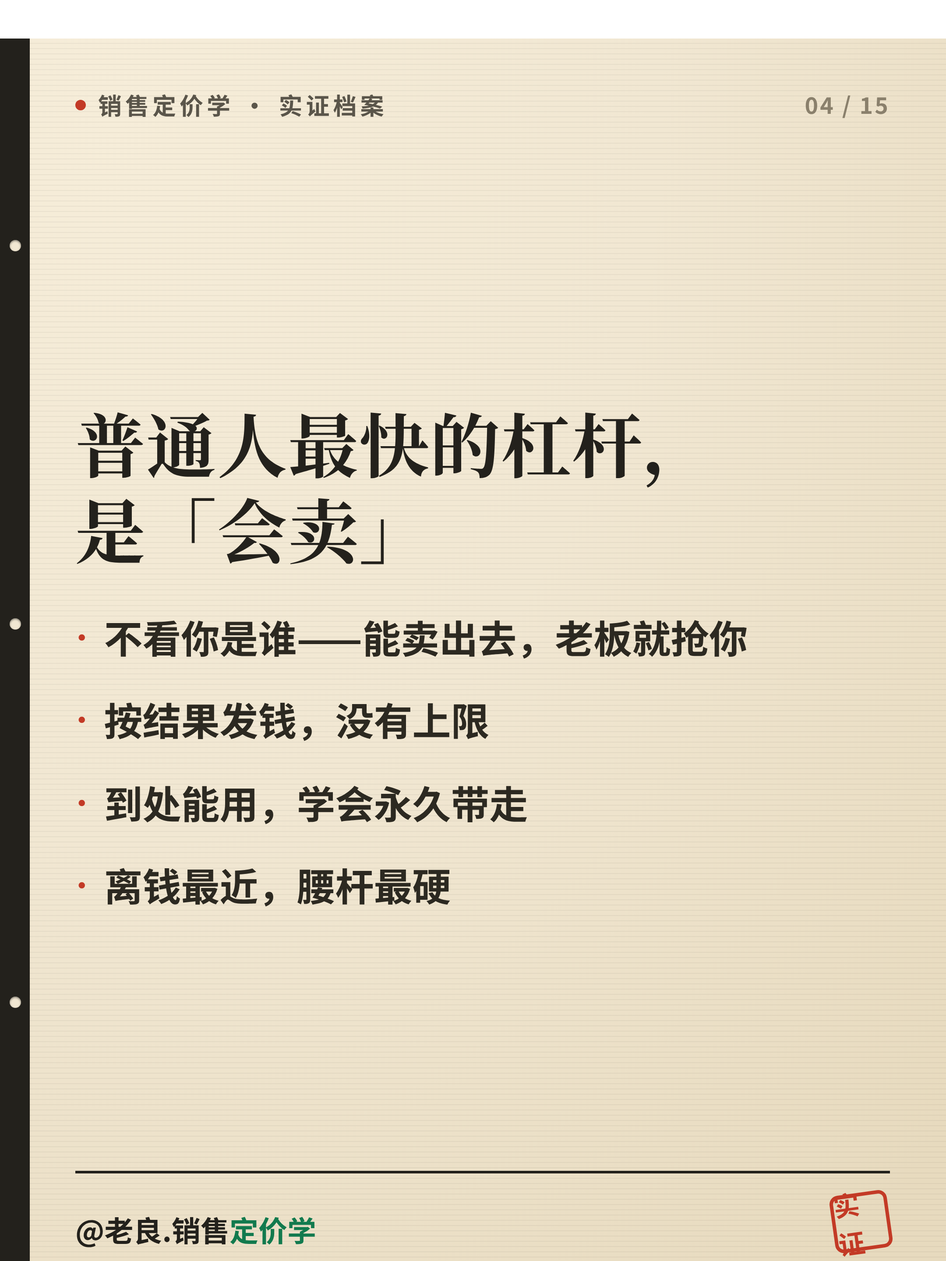
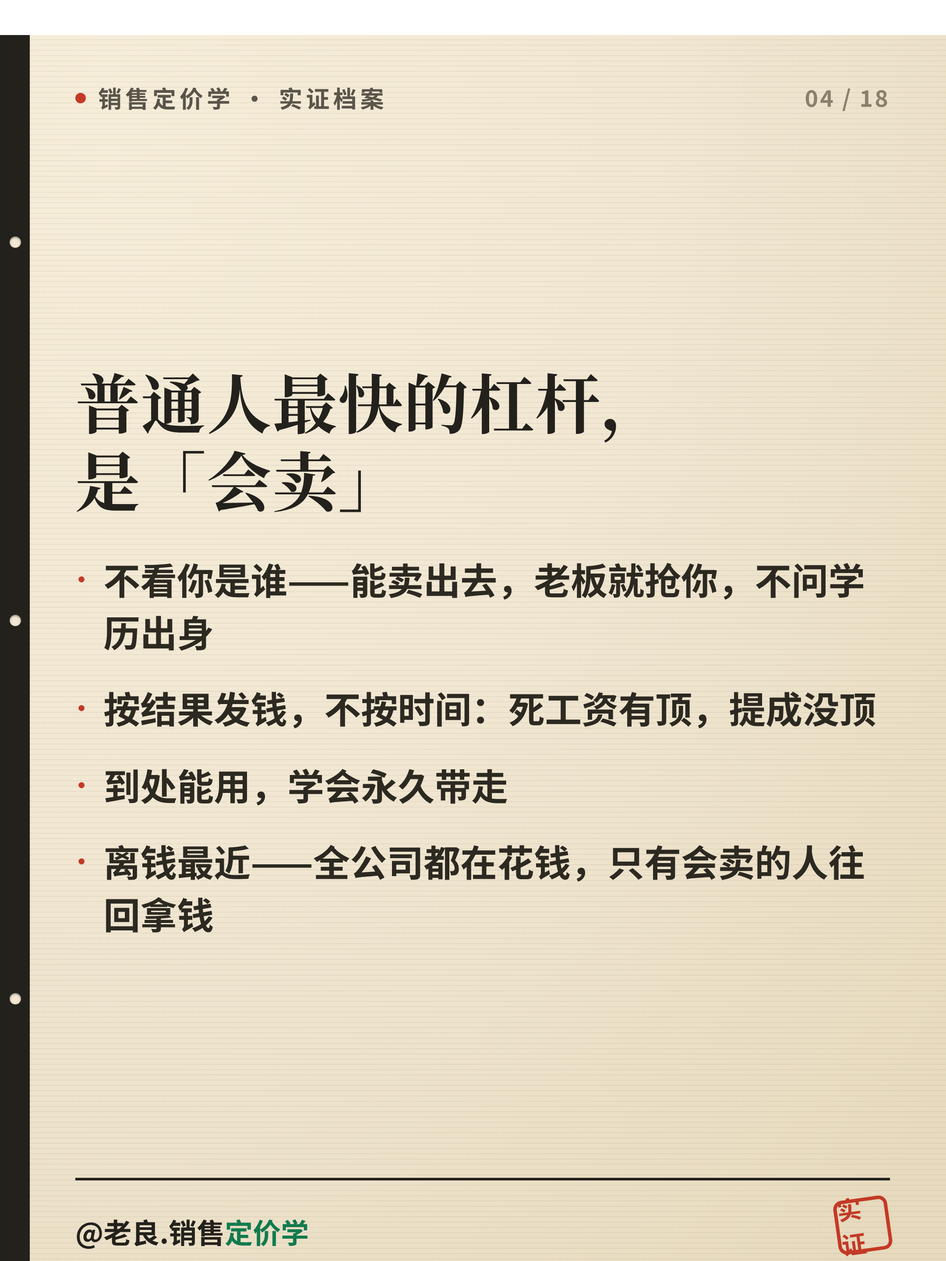
运营：长图卡片改为完整最长文版18张（每根杠杆恢复本质+研究+自查，非精简版）

diff --git a/theory-cards/运营/长图卡片/carousel.js b/theory-cards/运营/长图卡片/carousel.js
@@ -1,48 +1,70 @@
 const { chromium } = require('playwright');
-const HANDLE = '@老良.销售定价学';
-const N = 15;
-
-// 富文本：<r>红</r> <g>绿</g>
+const N = 18;
 function rt(s){ return (s||'').replace(/<r>/g,'<span class="r">').replace(/<\/r>/g,'</span>')
   .replace(/<g>/g,'<span class="g">').replace(/<\/g>/g,'</span>'); }
 
 const S = [
-  { type:'cover', eyebrow:'销售定价学 · 实证档案',
-    title:'为什么你<r>拼了命</r>，<br>还是<g>穷</g>？', sub:'普通人赚钱的第二层真相' },
+  { type:'cover', title:'为什么你<r>拼了命</r>，<br>还是<g>穷</g>？', sub:'普通人赚钱的第二层真相' },
 
-  { type:'statement', tag:'开篇',
-    big:'不是你不够努力。<br>是你以为对的，<r>99%是错的</r>。',
-    body:['常识要是对的，照做的人早都富了。','可现实是——越信常识的人，越穷。','在"怎么赚钱"上，人的直觉几乎是反着来的。'] },
+  { type:'statement', tag:'开篇', big:'不是你不够努力。<br>是你以为对的，<r>99%是错的</r>。',
+    body:['你有没有算过：按你现在的赚法，这辈子到底能赚多少钱？算完那个数，大多数人会沉默——它配不上你流过的汗。',
+          '常识要是对的，照做的人早都富了。可越信常识的人越穷。在"怎么赚钱"上，人的直觉几乎是反着来的。',
+          '读完这篇，你会拿到一张纸：什么在给你钉天花板，今天能拧松哪颗螺丝。'] },
 
-  { type:'list', tag:'真相 ①', header:'你租不出<br>自己的时间',
-    items:['一天8小时拼成16小时，收入最多翻倍，还熬垮身体','收入和时间绑死，天花板就是焊死的','加班，加不出富人'], bullet:'·' },
+  { type:'statement', tag:'真相 ①', big:'你租不出<br>自己的时间',
+    body:['一天8小时拼成16小时，收入最多翻一倍，还熬垮身体。收入和时间绑死，天花板就是焊死的——加班加不出富人。',
+          '真正拉开几十倍差距的，不是谁更能熬，是有没有一根"杠杆"：一份能在你睡觉时替你赚钱的东西。',
+          '可普通人没资本、不会写代码、没有百万粉丝，手里什么杠杆都没有。怎么办？'] },
 
   { type:'list', header:'普通人最快的杠杆，<br>是「会卖」',
-    items:['不看你是谁——能卖出去，老板就抢你','按结果发钱，没有上限','到处能用，学会永久带走','离钱最近，腰杆最硬'], bullet:'·' },
+    items:['不看你是谁——能卖出去，老板就抢你，不问学历出身','按结果发钱，不按时间：死工资有顶，提成没顶','到处能用，学会永久带走','离钱最近——全公司都在花钱，只有会卖的人往回拿钱'], bullet:'·' },
 
-  { type:'list', tag:'别急着说"我不适合"', header:'内向嘴笨，<br>照样能卖到顶尖',
-    items:['沃顿追踪340个销售：性格居中的普通人，比内向的多卖<r>24%</r>、比外向的多卖<r>32%</r>','1985年四教授总账：能不能卖，"天赋性格"排最后，"搞清楚该干啥"排第一——纯靠训练','"我不适合"，是你信了个假故事'], bullet:'·' },
+  { type:'statement', tag:'别急着说"我不适合"', big:'内向嘴笨，<br>照样卖到顶尖',
+    body:['沃顿追踪340个销售：卖得最好的不是能说会道的外向人，是性格居中的普通人——比内向的多卖<r>24%</r>、比外向的多卖<r>32%</r>。',
+          '闷的人不敢推，太能侃的只顾自己说、招人烦；中间那种，会说也会听，最容易成交。',
+          '1985年四教授总账：能不能卖，"天赋性格"排最后，"搞清楚该干啥"排第一——纯靠训练。"我不适合"，是你信了个假故事。'] },
 
-  { type:'list', tag:'真相 ②', header:'会卖，<br>也可能一直<g>穷</g>',
-    items:['你赚多少，不由你多能卖，由那套"分钱的规矩"定','同一个销冠，换套提成，收入差好几倍','你能赚多少，签合同那一刻就写死了——除非你看懂它、改它、换它'], bullet:'·' },
+  { type:'statement', tag:'真相 ②', big:'会卖，<br>也可能一直<g>穷</g>',
+    body:['就算练成销冠，也可能还是穷。因为你赚多少，不由你多能卖，由那套"分钱的规矩"定。',
+          '同一个销冠，放进两家公司、两套提成，收入差好几倍。差的不是本事，是规矩。',
+          '我干了20年销售管理、扒了全球40年上百家公司的研究，就一句话：你在一家公司能赚多少，签合同、定提成那一刻就写死了——除非你看懂它、改它、换它。'] },
 
-  { type:'list', tag:'5年后 · 如果你还在打工', header:'那个不改的你', dark:true,
-    items:['还是那个工位，月底还在打折求签单','提成还是那几个点，多干的全白干','比你晚来的升上去了——他早看懂"跟对结构"','四十岁怕被优化，却只会"更拼"','你还在用命，替一套没为你设计的规矩买单'], bullet:'·' },
+  { type:'statement', tag:'5年后 · 如果你还在打工', big:'那个不改的你', dark:true,
+    body:['还是那个工位，月底还在打折求客户签单。提成还是那几个点，超过那条线，多干的全白干。',
+          '你更努力了，账户数字却没怎么动。比你晚来的升上去了——不是他更能干，是他早看懂"跟对结构"。',
+          '四十岁，你怕被优化，却发现除了"更拼"什么都不会。你还在用命，替一套从没为你设计的规矩买单。'] },
 
-  { type:'list', tag:'5年后 · 如果你是老板', header:'那个不改的公司', dark:true,
-    items:['还在"招人—走人—怪销售—再招人"里打转','销冠一个个走，留下的卡线摸鱼','利润被月底打折悄悄冲光，报表还看不见','你以为市场不好，其实是你的规矩在奖励错的行为'], bullet:'·' },
+  { type:'statement', tag:'5年后 · 如果你是老板', big:'那个不改的公司', dark:true,
+    body:['你还在"招人—走人—怪销售不行—再招人"的圈里打转。销冠一个接一个走，留下的卡线摸鱼、能省则省。',
+          '利润被月底的打折冲单一年年悄悄冲光，报表上还看不见这一行。',
+          '你以为是市场不好、是人不行——其实是你亲手定的规矩，一直在奖励你最不想要的行为。'] },
 
-  { type:'list', tag:'对照自查', header:'锁死你收入的<br>10根杠杆（上）',
-    items:['1｜你上的哪条船（行业在缩还是在涨）','2｜钱的形状（纯提成把你压平）','3｜提成有没有封顶','4｜奖金是不是拖到年底','5｜目标是不是拍脑袋、年年硬加'], bullet:'' },
+  { type:'levers', tag:'锁死你收入的10根杠杆', items:[
+    { h:'1｜你上的哪条船', d:'平庸的人在暴涨行业，能吊打顶尖的人在夕阳行业。船，比划桨重要。', c:'这行在缩、或全靠打折才卖得动 → 中' },
+    { h:'2｜钱的形状', d:'纯提成是一条直线，把你压平。研究：换成"底薪+提成+季度奖+超额奖"，营收高约18%。', c:'低底薪+纯提成 → 中' } ] },
 
-  { type:'list', tag:'对照自查', header:'锁死你收入的<br>10根杠杆（下）',
-    items:['6｜提拔是不是只看业绩','7｜发奖是不是只哄后进','8｜身边是高手还是混子','9｜好线索归不归你','10｜产品是不是全靠便宜才卖得动'], foot:'中得越多，你被漏掉的越多。', bullet:'' },
+  { type:'levers', items:[
+    { h:'3｜提成封顶', d:'封顶=老板明说"干过这条线再干不划算"，你自动收工。研究：砍掉最高档，最能干的人营收掉约两成。', c:'有封顶 / 超额不加价 → 中' },
+    { h:'4｜发钱节奏', d:'年初一掉队就躺平，年终奖对掉队的人几乎没用。季度发，才救得回来。', c:'大头奖金拖到年底 → 中' } ] },
+
+  { type:'levers', items:[
+    { h:'5｜目标怎么定', d:'近七成销售完不成任务——还是任务调低之后。年年只加不减，逼所有人留一手。', c:'定完没人达标、年年硬加 → 中' },
+    { h:'6｜提拔标准', d:'顶刊4万销售：只按业绩提的主管，手下业绩反降约7.5%；按会带人提的，手下最高涨三成。', c:'提拔只看谁签单多 → 中' } ] },
+
+  { type:'levers', items:[
+    { h:'7｜发奖设计', d:'一搞"人人有份"的奖，最靠谱的骨干反而松劲、掉约8%——他觉得"奖为混子发"。', c:'激励只围着后几名转 → 中' },
+    { h:'8｜身边是谁', d:'顶刊：计时改计件，人均产量涨44%，一半是好结构吸来高手、赶走混子。身边人=你的天花板。', c:'打鸡血凑的人，不是好结构吸来的 → 中' } ] },
+
+  { type:'levers', items:[
+    { h:'9｜线索地盘', d:'好客户被老人垄断，新人只能啃骨头。起跑线差三米，你跑再快也累。', c:'线索和销冠不是一个池子 → 中' },
+    { h:'10｜产品定价', d:'定价太低，你再能卖单均提成也薄，等于用血汗补老板定价的错。', c:'全靠"比别人便宜"才卖得动 → 中' } ],
+    foot:'中得越多，你被漏掉的越多。' },
 
   { type:'list', header:'一个下午，一张纸，<br>四步',
-    items:['① 写下10根杠杆的编号','② 逐根自查，中了画圈','③ 挑最痛的一根（先只动一根）','④ 今天就改一个动作'], bullet:'' },
+    items:['写下10根杠杆的编号','逐根自查，中了画圈','挑最痛的一根（先只动一根）','今天就改一个动作：打工的去谈/早做打算，老板的改一个数字'], bullet:'num' },
 
   { type:'list', header:'改的时候，<br>你会过三道关',
-    items:['一、别扭——新规矩谁都不习惯','二、怀疑——最要命，多数人死在这','三、兑现——两三周，钱开始动'], foot:'撑过第二关，你就赢了。', bullet:'' },
+    items:['别扭——新规矩谁都不习惯','怀疑——最要命，多数人死在这、退回去','兑现——两三周，钱开始动'], foot:'撑过第二关，你就赢了。', bullet:'num' },
 
   { type:'quote', big:'你的天花板，<br>不在你的<g>能力</g>上，<br>在那张你从没看过的<br><r>"分钱的规矩"</r>上。' },
 
@@ -50,132 +72,96 @@ const S = [
     body:['评论区扣数字告诉我。','想看每根到底怎么改——','关注我，138条实证一条条讲。'],
     share:'转给那个"累死累活、还不涨薪"的人' },
 
-  { type:'end', big:'实证\n档案',
-    lines:['138条销售管理实证','一条一张卡，每条带论文出处，可自己查'] },
+  { type:'end', lines:['138条销售管理实证','一条一张卡，每条带论文出处，可自己查'] },
 ];
 
-function chrome(i, tag, dark){
+function chrome(i){
   const pg = String(i+1).padStart(2,'0');
-  return `
-  <div class="bind"><i style="top:16%"></i><i style="top:46%"></i><i style="top:76%"></i></div>
-  <div class="top">
-    <div class="eyebrow"><span class="dot"></span>销售定价学 · 实证档案</div>
-    <div class="pg">${pg} / ${N}</div>
-  </div>
-  <div class="foot">
-    <div class="handle"><b>@老良</b>.销售<span class="g">定价学</span></div>
-    <div class="chop">实证</div>
-  </div>`;
+  return `<div class="bind"><i style="top:16%"></i><i style="top:46%"></i><i style="top:76%"></i></div>
+  <div class="top"><div class="eyebrow"><span class="dot"></span>销售定价学 · 实证档案</div><div class="pg">${pg} / ${N}</div></div>
+  <div class="foot"><div class="handle"><b>@老良</b>.销售<span class="g">定价学</span></div><div class="chop">实证</div></div>`;
 }
-
 function slideHTML(s, i){
-  let inner = '';
-  if (s.type === 'cover'){
-    inner = `<div class="body cover">
-      <div class="kick"><span class="dot"></span>${s.eyebrow}</div>
-      <div class="seal big"><b>实证</b><span>档案</span></div>
-      <h1 class="title xl">${rt(s.title)}</h1>
-      <div class="sub">${rt(s.sub)}</div>
-    </div>`;
-  } else if (s.type === 'statement'){
-    inner = `<div class="body">
-      ${s.tag?`<div class="pill">${rt(s.tag)}</div>`:''}
-      <h1 class="title">${rt(s.big)}</h1>
-      <div class="para">${s.body.map(x=>`<p>${rt(x)}</p>`).join('')}</div>
-    </div>`;
-  } else if (s.type === 'list'){
-    inner = `<div class="body">
-      ${s.tag?`<div class="pill ${s.dark?'dark':''}">${rt(s.tag)}</div>`:''}
-      <h1 class="title">${rt(s.header)}</h1>
-      <ul class="list">${s.items.map(x=>`<li>${s.bullet?`<span class="bul">${s.bullet}</span>`:''}<span class="it">${rt(x)}</span></li>`).join('')}</ul>
-      ${s.foot?`<div class="listfoot">${rt(s.foot)}</div>`:''}
-    </div>`;
-  } else if (s.type === 'quote'){
-    inner = `<div class="body quote"><div class="qmark">“</div><h1 class="title q">${rt(s.big)}</h1></div>`;
-  } else if (s.type === 'cta'){
-    inner = `<div class="body">
-      <h1 class="title">${rt(s.big)}</h1>
-      <div class="para">${s.body.map(x=>`<p>${rt(x)}</p>`).join('')}</div>
-      <div class="share">${rt(s.share)}</div>
-    </div>`;
-  } else if (s.type === 'end'){
-    inner = `<div class="body end">
-      <div class="seal big end"><b>实证</b><span>档案</span></div>
-      <div class="endhandle"><b>@老良</b>.销售<span class="g">定价学</span></div>
-      <div class="endlines">${s.lines.map(x=>`<p>${rt(x)}</p>`).join('')}</div>
-      <div class="follow">点关注 · 一条条追下去 →</div>
-    </div>`;
-  }
-  return `<div class="cv ${s.type}">${chrome(i, s.tag, s.dark)}${inner}</div>`;
+  let inner='';
+  if(s.type==='cover'){ inner=`<div class="body cover">
+    <div class="seal big"><b>实证</b><span>档案</span></div>
+    <h1 class="title xl">${rt(s.title)}</h1><div class="sub">${rt(s.sub)}</div></div>`; }
+  else if(s.type==='statement'){ inner=`<div class="body">${s.tag?`<div class="pill ${s.dark?'dark':''}">${rt(s.tag)}</div>`:''}
+    <h1 class="title">${rt(s.big)}</h1><div class="para">${s.body.map(x=>`<p>${rt(x)}</p>`).join('')}</div></div>`; }
+  else if(s.type==='list'){ let n=0; inner=`<div class="body">${s.tag?`<div class="pill">${rt(s.tag)}</div>`:''}
+    <h1 class="title">${rt(s.header)}</h1><ul class="list">${s.items.map(x=>{n++;const b=s.bullet==='num'?`<span class="bul num">${n}</span>`:(s.bullet?`<span class="bul">${s.bullet}</span>`:'');return `<li>${b}<span class="it">${rt(x)}</span></li>`;}).join('')}</ul>
+    ${s.foot?`<div class="listfoot">${rt(s.foot)}</div>`:''}</div>`; }
+  else if(s.type==='levers'){ inner=`<div class="body">${s.tag?`<div class="pill">${rt(s.tag)}</div>`:''}
+    <div class="levers">${s.items.map(it=>`<div class="lev"><div class="lh">${rt(it.h)}</div><div class="ld">${rt(it.d)}</div><div class="lc">自查：${rt(it.c)}</div></div>`).join('')}</div>
+    ${s.foot?`<div class="listfoot">${rt(s.foot)}</div>`:''}</div>`; }
+  else if(s.type==='quote'){ inner=`<div class="body quote"><div class="qmark">“</div><h1 class="title q">${rt(s.big)}</h1></div>`; }
+  else if(s.type==='cta'){ inner=`<div class="body"><h1 class="title">${rt(s.big)}</h1>
+    <div class="para">${s.body.map(x=>`<p>${rt(x)}</p>`).join('')}</div><div class="share">${rt(s.share)}</div></div>`; }
+  else if(s.type==='end'){ inner=`<div class="body end"><div class="seal big end"><b>实证</b><span>档案</span></div>
+    <div class="endhandle"><b>@老良</b>.销售<span class="g">定价学</span></div>
+    <div class="endlines">${s.lines.map(x=>`<p>${rt(x)}</p>`).join('')}</div>
+    <div class="follow">点关注 · 一条条追下去 →</div></div>`; }
+  return `<div class="cv ${s.type}">${chrome(i)}${inner}</div>`;
 }
 
-const CSS = `
-*{margin:0;padding:0;box-sizing:border-box;}
+const CSS=`*{margin:0;padding:0;box-sizing:border-box;}
 .cv{position:relative;width:1080px;height:1440px;overflow:hidden;
   background:radial-gradient(120% 120% at 12% 6%, #F6EDD9 0%, #F1E7D2 48%, #E7DABE 100%);
   font-family:"Noto Serif CJK SC",serif;color:#23211C;}
-.cv::before{content:"";position:absolute;inset:0;opacity:.045;pointer-events:none;
-  background-image:repeating-linear-gradient(0deg,#000 0 1px,transparent 1px 6px);}
+.cv::before{content:"";position:absolute;inset:0;opacity:.045;pointer-events:none;background-image:repeating-linear-gradient(0deg,#000 0 1px,transparent 1px 6px);}
 .bind{position:absolute;left:0;top:0;bottom:0;width:34px;background:#23211C;}
 .bind i{position:absolute;left:11px;width:13px;height:13px;border-radius:50%;background:#F1E7D2;box-shadow:inset 0 1px 2px rgba(0,0,0,.5);}
-.top{position:absolute;left:86px;right:64px;top:56px;display:flex;justify-content:space-between;align-items:center;
-  font-family:"Noto Sans CJK SC",sans-serif;}
+.top{position:absolute;left:86px;right:64px;top:52px;display:flex;justify-content:space-between;align-items:center;font-family:"Noto Sans CJK SC",sans-serif;}
 .eyebrow{display:flex;align-items:center;gap:14px;color:#5A554A;font-weight:700;font-size:27px;letter-spacing:4px;}
-.eyebrow .dot,.kick .dot{width:12px;height:12px;background:#C33A26;border-radius:50%;display:inline-block;}
+.eyebrow .dot{width:12px;height:12px;background:#C33A26;border-radius:50%;display:inline-block;}
 .pg{color:#8a806c;font-weight:800;font-size:26px;letter-spacing:2px;}
-.foot{position:absolute;left:86px;right:64px;bottom:56px;display:flex;justify-content:space-between;align-items:flex-end;
-  font-family:"Noto Sans CJK SC",sans-serif;padding-top:22px;border-top:3px solid #23211C;}
-.handle{font-size:33px;font-weight:800;color:#23211C;}
-.handle b{color:#23211C;} .g{color:#127A4E;} .r{color:#C33A26;}
-.chop{width:66px;height:66px;border:4px solid #C33A26;border-radius:10px;color:#C33A26;font-weight:900;font-size:30px;
-  display:flex;align-items:center;justify-content:center;transform:rotate(-8deg);letter-spacing:2px;}
-.body{position:absolute;left:86px;right:72px;top:150px;bottom:150px;display:flex;flex-direction:column;justify-content:center;}
-.pill{align-self:flex-start;background:#23211C;color:#F1E7D2;font-family:"Noto Sans CJK SC",sans-serif;font-weight:800;
-  font-size:30px;letter-spacing:2px;padding:10px 22px;border-radius:10px;margin-bottom:34px;}
+.foot{position:absolute;left:86px;right:64px;bottom:50px;display:flex;justify-content:space-between;align-items:flex-end;font-family:"Noto Sans CJK SC",sans-serif;padding-top:20px;border-top:3px solid #23211C;}
+.handle{font-size:32px;font-weight:800;color:#23211C;} .g{color:#127A4E;} .r{color:#C33A26;}
+.chop{width:62px;height:62px;border:4px solid #C33A26;border-radius:10px;color:#C33A26;font-weight:900;font-size:28px;display:flex;align-items:center;justify-content:center;transform:rotate(-8deg);letter-spacing:2px;}
+.body{position:absolute;left:86px;right:72px;top:128px;bottom:132px;display:flex;flex-direction:column;justify-content:center;}
+.pill{align-self:flex-start;background:#23211C;color:#F1E7D2;font-family:"Noto Sans CJK SC",sans-serif;font-weight:800;font-size:29px;letter-spacing:2px;padding:10px 22px;border-radius:10px;margin-bottom:30px;}
 .pill.dark{background:#C33A26;}
-.title{font-weight:900;line-height:1.22;letter-spacing:1px;font-size:80px;}
-.title.xl{font-size:108px;line-height:1.14;}
-.para{margin-top:40px;}
-.para p{font-family:"Noto Sans CJK SC",sans-serif;font-size:43px;line-height:1.66;font-weight:600;color:#3a352c;margin-bottom:14px;}
-.list{list-style:none;margin-top:44px;}
-.list li{display:flex;gap:18px;align-items:flex-start;margin-bottom:30px;}
-.list .bul{color:#C33A26;font-weight:900;font-size:44px;line-height:1.4;}
-.list .it{font-family:"Noto Sans CJK SC",sans-serif;font-size:44px;line-height:1.46;font-weight:700;color:#2c2921;}
-.listfoot{margin-top:30px;font-family:"Noto Sans CJK SC",sans-serif;font-size:40px;font-weight:800;color:#C33A26;}
-.sub{margin-top:40px;font-family:"Noto Sans CJK SC",sans-serif;font-size:44px;font-weight:700;color:#5A554A;letter-spacing:2px;}
-.cover .kick{display:flex;align-items:center;gap:14px;color:#5A554A;font-weight:700;font-size:30px;letter-spacing:5px;
-  font-family:"Noto Sans CJK SC",sans-serif;margin-bottom:44px;}
-.seal{position:absolute;border:5px solid #C33A26;border-radius:14px;color:#C33A26;display:flex;flex-direction:column;
-  align-items:center;justify-content:center;transform:rotate(-9deg);}
-.seal.big{right:10px;top:20px;width:160px;height:160px;}
-.seal.big b{font-size:56px;font-weight:900;letter-spacing:4px;line-height:1;}
-.seal.big span{font-size:22px;letter-spacing:6px;margin-top:8px;}
-.quote{align-items:flex-start;}
-.qmark{font-size:180px;color:#C33A26;line-height:.7;height:110px;font-family:Georgia,serif;}
-.title.q{font-size:74px;line-height:1.42;}
-.share{margin-top:44px;background:rgba(18,122,78,.1);border:3px solid #127A4E;border-radius:14px;padding:24px 26px;
-  font-family:"Noto Sans CJK SC",sans-serif;font-size:38px;font-weight:800;color:#127A4E;line-height:1.4;}
+.title{font-weight:900;line-height:1.2;letter-spacing:1px;font-size:74px;}
+.title.xl{font-size:106px;line-height:1.14;}
+.para{margin-top:34px;}
+.para p{font-family:"Noto Sans CJK SC",sans-serif;font-size:40px;line-height:1.62;font-weight:600;color:#3a352c;margin-bottom:20px;}
+.list{list-style:none;margin-top:40px;}
+.list li{display:flex;gap:18px;align-items:flex-start;margin-bottom:28px;}
+.list .bul{color:#C33A26;font-weight:900;font-size:42px;line-height:1.35;flex:none;}
+.list .bul.num{width:52px;height:52px;background:#23211C;color:#F1E7D2;border-radius:50%;font-size:30px;display:flex;align-items:center;justify-content:center;}
+.list .it{font-family:"Noto Sans CJK SC",sans-serif;font-size:42px;line-height:1.42;font-weight:700;color:#2c2921;}
+.listfoot{margin-top:28px;font-family:"Noto Sans CJK SC",sans-serif;font-size:38px;font-weight:800;color:#C33A26;}
+.levers{display:flex;flex-direction:column;gap:40px;}
+.lev .lh{font-weight:900;font-size:50px;color:#23211C;letter-spacing:1px;margin-bottom:10px;}
+.lev .ld{font-family:"Noto Sans CJK SC",sans-serif;font-size:37px;line-height:1.5;font-weight:600;color:#3a352c;}
+.lev .lc{font-family:"Noto Sans CJK SC",sans-serif;font-size:33px;font-weight:800;color:#127A4E;margin-top:10px;}
+.sub{margin-top:36px;font-family:"Noto Sans CJK SC",sans-serif;font-size:44px;font-weight:700;color:#5A554A;letter-spacing:2px;}
+.seal{position:absolute;border:5px solid #C33A26;border-radius:14px;color:#C33A26;display:flex;flex-direction:column;align-items:center;justify-content:center;transform:rotate(-9deg);}
+.seal.big{right:6px;top:14px;width:150px;height:150px;}
+.seal.big b{font-size:52px;font-weight:900;letter-spacing:4px;line-height:1;} .seal.big span{font-size:21px;letter-spacing:6px;margin-top:8px;}
+.quote{align-items:flex-start;} .qmark{font-size:170px;color:#C33A26;line-height:.7;height:100px;font-family:Georgia,serif;}
+.title.q{font-size:70px;line-height:1.42;}
+.share{margin-top:40px;background:rgba(18,122,78,.1);border:3px solid #127A4E;border-radius:14px;padding:24px 26px;font-family:"Noto Sans CJK SC",sans-serif;font-size:37px;font-weight:800;color:#127A4E;line-height:1.4;}
 .end{align-items:center;text-align:center;justify-content:center;}
-.seal.big.end{position:static;transform:rotate(-6deg);margin:0 auto 50px;width:210px;height:210px;}
-.seal.big.end b{font-size:74px;} .seal.big.end span{font-size:28px;}
-.endhandle{font-family:"Noto Sans CJK SC",sans-serif;font-size:56px;font-weight:900;color:#23211C;}
-.endlines{margin-top:30px;}
-.endlines p{font-family:"Noto Sans CJK SC",sans-serif;font-size:38px;font-weight:600;color:#5A554A;line-height:1.6;}
-.follow{margin-top:46px;background:#23211C;color:#F1E7D2;font-family:"Noto Sans CJK SC",sans-serif;font-weight:800;
-  font-size:38px;padding:20px 34px;border-radius:14px;letter-spacing:2px;}
-`;
+.seal.big.end{position:static;transform:rotate(-6deg);margin:0 auto 44px;width:200px;height:200px;}
+.seal.big.end b{font-size:70px;} .seal.big.end span{font-size:26px;}
+.endhandle{font-family:"Noto Sans CJK SC",sans-serif;font-size:54px;font-weight:900;color:#23211C;}
+.endlines{margin-top:28px;} .endlines p{font-family:"Noto Sans CJK SC",sans-serif;font-size:37px;font-weight:600;color:#5A554A;line-height:1.6;}
+.follow{margin-top:44px;background:#23211C;color:#F1E7D2;font-family:"Noto Sans CJK SC",sans-serif;font-weight:800;font-size:37px;padding:20px 34px;border-radius:14px;letter-spacing:2px;}`;
 
 (async () => {
   const b = await chromium.launch({ executablePath:'/opt/pw-browsers/chromium-1194/chrome-linux/chrome' });
-  for (let i=0;i<S.length;i++){
+  let over=0;
+  for(let i=0;i<S.length;i++){
     const p = await b.newPage({ viewport:{ width:1080, height:1440 }, deviceScaleFactor:2 });
     await p.setContent(`<!doctype html><html><head><meta charset="utf-8"><style>${CSS}</style></head><body>${slideHTML(S[i],i)}</body></html>`, { waitUntil:'networkidle' });
-    await p.waitForTimeout(120);
-    const name = 'slide_'+String(i+1).padStart(2,'0')+'.png';
-    await p.screenshot({ path: name });
+    const fit = await p.evaluate(()=>{ const b=document.querySelector('.body'); return { sh:b.scrollHeight, ch:b.clientHeight }; });
+    const bad = fit.sh > fit.ch+2;
+    if(bad) over++;
+    console.log('slide',String(i+1).padStart(2,'0'), fit.sh+'/'+fit.ch, bad?'*** OVERFLOW ***':'ok');
+    await p.screenshot({ path:'slide_'+String(i+1).padStart(2,'0')+'.png' });
     await p.close();
-    console.log('saved', name);
   }
   await b.close();
-  console.log('DONE', S.length, 'slides');
+  console.log('DONE',S.length,'slides, overflow:',over);
 })();
